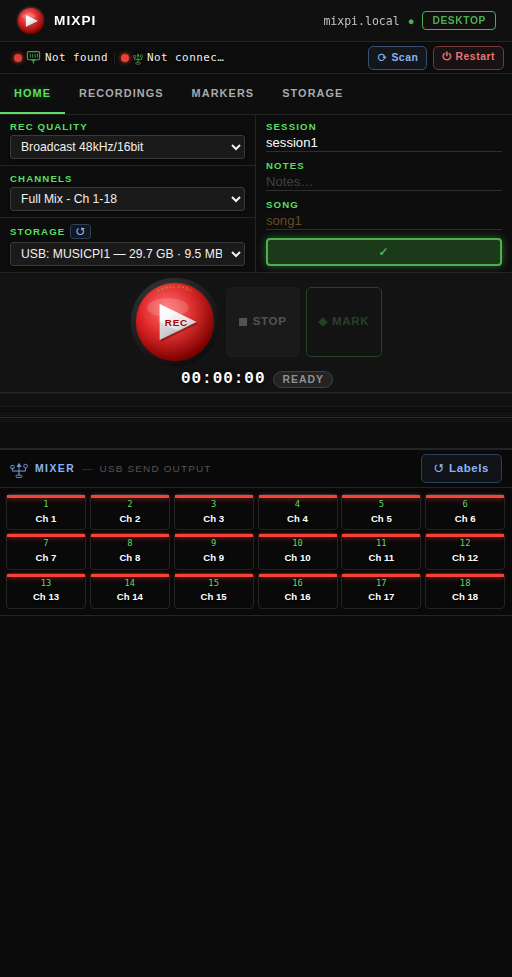
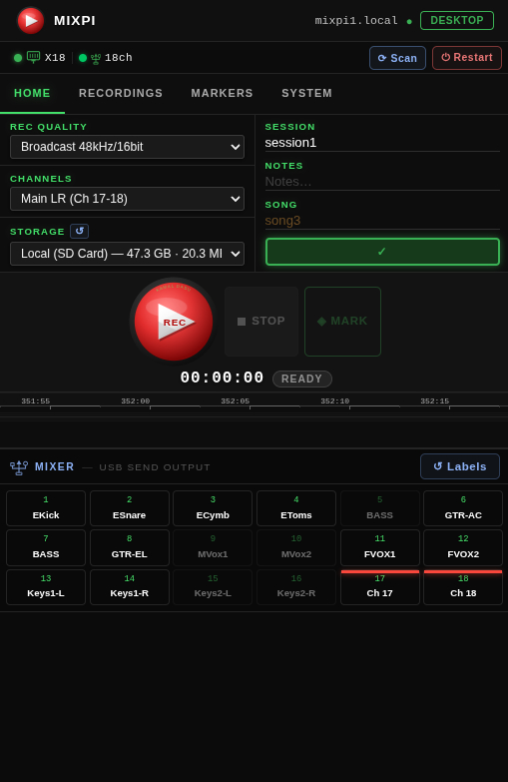
docs: update screenshots with connected-mixer UI and rearrange layout
- Replace desktop-ui.png and mobile-ui.png with updated connected-mixer screenshots
- Add recordings-mobile-ui.png and system-mobile-ui.png (new mobile tabs)
- Rearrange README: desktop full-width on top, three mobile shots below

diff --git a/README.md b/README.md
@@ -5,10 +5,13 @@ A professional multi-track USB audio recorder that runs on a Raspberry Pi 4/5. I
 > **Note:** MixPi is primarily developed and tested with the **Behringer XR18**. Support for other X Air, X32, and M32 models is provided based on their shared OSC and USB audio architecture.
 
 <div align="center">
+  <img src="docs/assets/desktop-ui.png" width="920" alt="MixPi Desktop Interface">
+  <br><br>
   <table>
     <tr>
-      <td valign="top"><img src="docs/assets/desktop-ui.png" width="550" alt="MixPi Desktop Interface"></td>
-      <td valign="top"><img src="docs/assets/mobile-ui.png" width="220" alt="MixPi Mobile Interface"></td>
+      <td valign="top"><img src="docs/assets/mobile-ui.png" width="330" alt="MixPi Mobile Interface"></td>
+      <td valign="top"><img src="docs/assets/recordings-mobile-ui.png" width="320" alt="MixPi Mobile Interface — Recordings"></td>
+      <td valign="top"><img src="docs/assets/system-mobile-ui.png" width="320" alt="MixPi Mobile Interface — System"></td>
     </tr>
   </table>
 </div>
